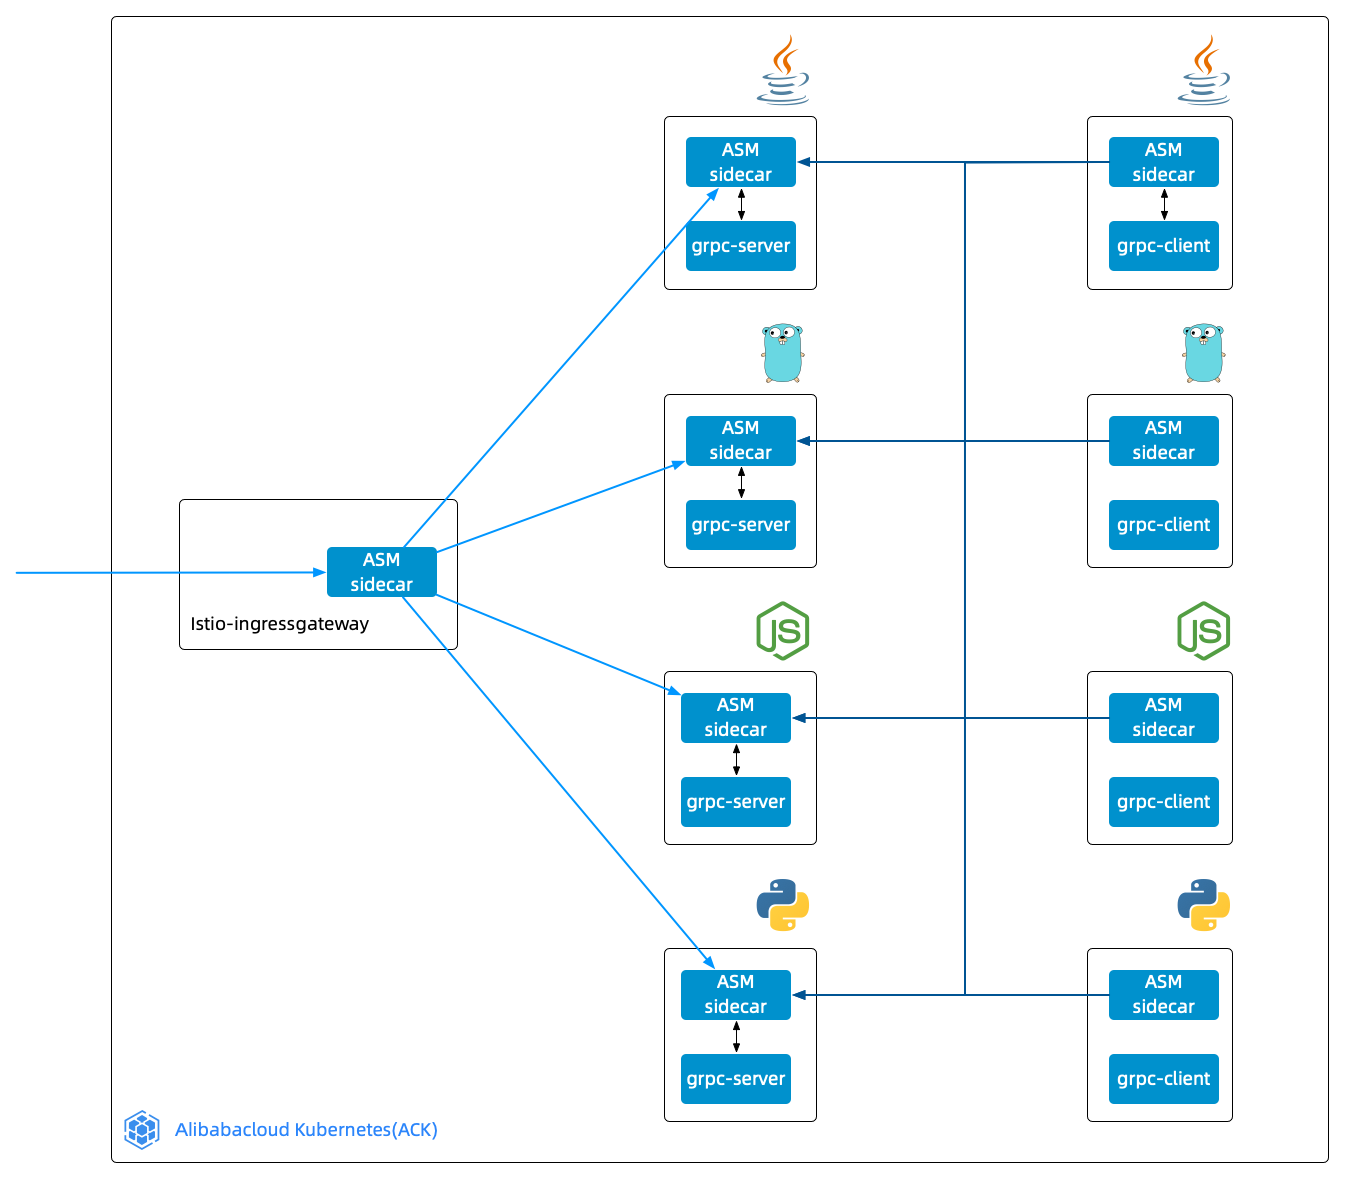
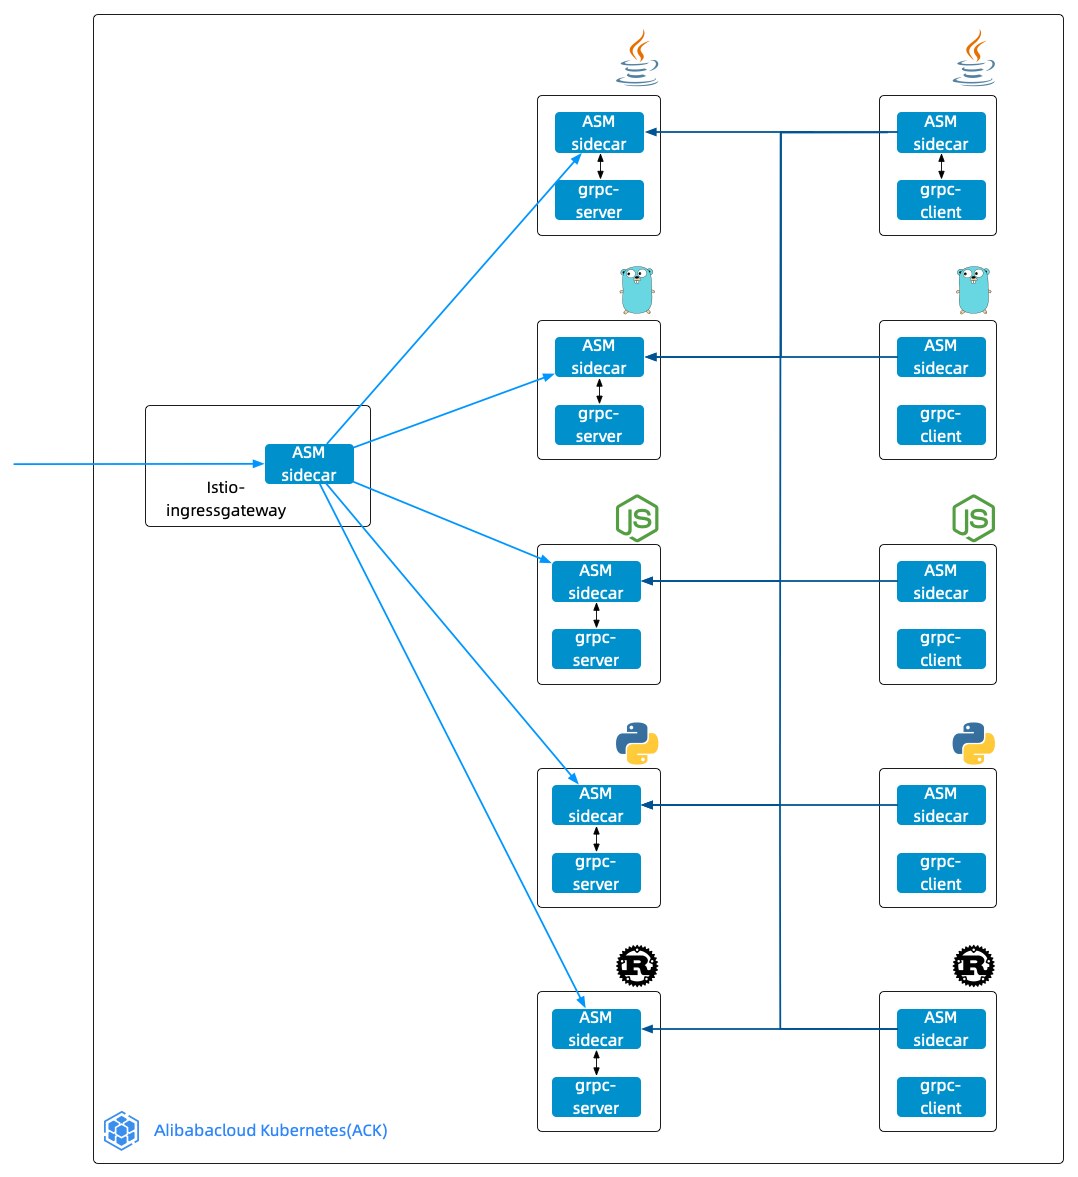
rust propagate done

diff --git a/hello-grpc-rust/src/landing/client.rs b/hello-grpc-rust/src/landing/client.rs
@@ -3,10 +3,11 @@ use std::time::Duration;
 
 use env_logger::Env;
 use futures::stream;
-use log::info;
+use log::{debug, error, info};
 use rand::Rng;
 use tokio::time;
 use tonic::Request;
+use tonic::transport::Channel;
 
 use landing::{TalkRequest, TalkResponse};
 use landing::landing_service_client::LandingServiceClient;
@@ -23,35 +24,61 @@ async fn main() -> Result<(), Box<dyn std::error::Error>> {
     info!("Access to:{}", address);
 
     let mut client = LandingServiceClient::connect(address).await?;
-    info!("Talk");
 
-    let message = TalkRequest {
-        data: "0".to_string(),
-        meta: "RUST".to_string(),
-    };
-    let mut request = Request::new(message);
-    request.metadata_mut().insert("k1", "v1".parse().unwrap());
-    request.metadata_mut().insert("k2", "v2".parse().unwrap());
 
-    let response = client.talk(request).await?;
-    print_response(response.get_ref());
-
-    info!("TalkOneAnswerMore");
-    let mut request = Request::new(TalkRequest {
-        data: "0,1,2".to_string(),
-        meta: "RUST".to_string(),
-    });
-    request.metadata_mut().insert("k1", "v1".parse().unwrap());
-    request.metadata_mut().insert("k2", "v2".parse().unwrap());
-    let mut stream = client
-        .talk_one_answer_more(request)
-        .await?
-        .into_inner();
-
-    while let Some(response) = stream.message().await? {
-        print_response(&response);
+    let result = talk(&mut client).await;
+    match result {
+        Err(e) => error!("{}", e),
+        _ => debug!("OK"),
     }
 
+    let result = talk_one_answer_more(&mut client).await;
+    match result {
+        Err(e) => error!("{}", e),
+        _ => debug!("OK"),
+    }
+
+    let result = talk_more_answer_one(&mut client).await;
+    match result {
+        Err(e) => error!("{}", e),
+        _ => debug!("OK"),
+    }
+
+    let result = talk_bidirectional(&mut client).await;
+    match result {
+        Err(e) => error!("{}", e),
+        _ => debug!("OK"),
+    }
+
+    info!("Done");
+    Ok(())
+}
+
+async fn talk_bidirectional(client: &mut LandingServiceClient<Channel>) -> Result<(), Box<dyn std::error::Error>> {
+    info!("TalkBidirectional");
+    let mut interval = time::interval(Duration::from_secs(1));
+    let mut times = 3;
+    let outbound = async_stream::stream! {
+        while times > 0 {
+            interval.tick().await;
+            let request = TalkRequest { data: random_id(5), meta: "RUST".to_string() };
+            yield request;
+            times -= 1;
+        }
+    };
+
+    let mut request = Request::new(outbound);
+    request.metadata_mut().insert("k1", "v1".parse().unwrap());
+    request.metadata_mut().insert("k2", "v2".parse().unwrap());
+    let response = client.talk_bidirectional(request).await?;
+    let mut inbound = response.into_inner();
+    while let Some(resp) = inbound.message().await? {
+        print_response(&resp);
+    }
+    Ok(())
+}
+
+async fn talk_more_answer_one(client: &mut LandingServiceClient<Channel>) -> Result<(), Box<dyn std::error::Error>> {
     info!("TalkMoreAnswerOne");
     let mut requests = vec![];
     requests.push(TalkRequest {
@@ -74,28 +101,41 @@ async fn main() -> Result<(), Box<dyn std::error::Error>> {
         Ok(response) => print_response(&response.into_inner()),
         Err(e) => info!("something went wrong: {:?}", e),
     }
+    Ok(())
+}
 
-    info!("TalkBidirectional");
-    let mut interval = time::interval(Duration::from_secs(1));
-    let mut times = 3;
-    let outbound = async_stream::stream! {
-        while times > 0 {
-            interval.tick().await;
-            let request = TalkRequest { data: random_id(5), meta: "RUST".to_string() };
-            yield request;
-            times -= 1;
-        }
-    };
-
-    let mut request = Request::new(outbound);
+async fn talk_one_answer_more(client: &mut LandingServiceClient<Channel>) -> Result<(), Box<dyn std::error::Error>> {
+    info!("TalkOneAnswerMore");
+    let mut request = Request::new(TalkRequest {
+        data: "0,1,2".to_string(),
+        meta: "RUST".to_string(),
+    });
     request.metadata_mut().insert("k1", "v1".parse().unwrap());
     request.metadata_mut().insert("k2", "v2".parse().unwrap());
-    let response = client.talk_bidirectional(request).await?;
-    let mut inbound = response.into_inner();
-    while let Some(resp) = inbound.message().await? {
-        print_response(&resp);
+    let mut stream = client
+        .talk_one_answer_more(request)
+        .await?
+        .into_inner();
+
+    while let Some(response) = stream.message().await? {
+        print_response(&response);
     }
-    info!("Done");
+    Ok(())
+}
+
+async fn talk(client: &mut LandingServiceClient<Channel>) -> Result<(), Box<dyn std::error::Error>> {
+    info!("Talk");
+
+    let message = TalkRequest {
+        data: "0".to_string(),
+        meta: "RUST".to_string(),
+    };
+    let mut request = Request::new(message);
+    request.metadata_mut().insert("k1", "v1".parse().unwrap());
+    request.metadata_mut().insert("k2", "v2".parse().unwrap());
+
+    let response = client.talk(request).await?;
+    print_response(response.get_ref());
     Ok(())
 }
 

diff --git a/hello-grpc-rust/src/landing/server.rs b/hello-grpc-rust/src/landing/server.rs
@@ -1,6 +1,3 @@
-#[macro_use]
-extern crate lazy_static;
-
 use std::collections::HashMap;
 use std::env;
 use std::pin::Pin;
@@ -9,10 +6,10 @@ use chrono::prelude::*;
 use env_logger::Env;
 use futures::{Stream, StreamExt};
 use futures::stream;
-use log::{error, info};
+use log::{debug, error, info};
 use tokio::sync::mpsc;
 use tonic::{Request, Response, Status, Streaming, transport::Server};
-use tonic::metadata::{KeyAndValueRef, MetadataMap};
+use tonic::metadata::{Ascii, KeyAndValueRef, MetadataKey, MetadataMap};
 use tonic::transport::Channel;
 use uuid::Uuid;
 
@@ -20,16 +17,25 @@ use landing::{ResultType, TalkRequest, TalkResponse, TalkResult};
 use landing::landing_service_client::LandingServiceClient;
 use landing::landing_service_server::{LandingService, LandingServiceServer};
 
-lazy_static! {
-    static ref HELLOS: [&'static str; 6] = [
-        "Hello",
-        "Bonjour",
-        "Hola",
-        "こんにちは",
-        "Ciao",
-        "안녕하세요",
-    ];
-}
+static HELLOS: [&'static str; 6] = [
+    "Hello",
+    "Bonjour",
+    "Hola",
+    "こんにちは",
+    "Ciao",
+    "안녕하세요",
+];
+
+static TRACING_KEYS: [&'static str; 7] = [
+    "x-request-id",
+    "x-b3-traceid",
+    "x-b3-spanid",
+    "x-b3-parentspanid",
+    "x-b3-sampled",
+    "x-b3-flags",
+    "x-ot-span-context",
+];
+
 pub mod landing {
     tonic::include_proto!("org.feuyeux.grpc");
 }
@@ -84,7 +90,7 @@ impl LandingService for ProtoServer {
 
     async fn talk(
         &self,
-        request: Request<TalkRequest>)
+        mut request: Request<TalkRequest>)
         -> Result<Response<TalkResponse>, Status> {
         let talk_request: &TalkRequest = request.get_ref();
         let data: &String = &talk_request.data;
@@ -95,6 +101,8 @@ impl LandingService for ProtoServer {
         if !self.backend.is_empty() {
             match &self.client {
                 Some(client) => {
+                    //TODO request and header is same...
+                    let _ = propaganda_headers(&mut request);
                     let mut c = client.clone();
                     let response: &Response<TalkResponse> = &c.talk(request).await?;
                     let talk_response = response.get_ref();
@@ -286,4 +294,22 @@ fn print_metadata(header: &MetadataMap) {
             KeyAndValueRef::Binary(ref k, ref v) => info!("H: {:?}: {:?}", k, v),
         }
     }
+}
+
+fn propaganda_headers(request: &mut Request<TalkRequest>) -> MetadataMap {
+    request.metadata_mut().clear();
+    let mut map = MetadataMap::new();
+    let headers = request.metadata_mut();
+    for key in &TRACING_KEYS {
+        let key: MetadataKey<Ascii> = MetadataKey::from_static(key);
+        match headers.get(&key) {
+            Some(v) => {
+                map.insert(&key, v.clone());
+            }
+            None => {
+                debug!("key doesn't exist in header");
+            }
+        }
+    }
+    map
 }

diff --git a/hello-grpc-rust/README.md b/hello-grpc-rust/README.md
@@ -1,14 +1,19 @@
 ## grpc rust[tonic] demo
 
-```sh
+
+### build
+```bash
 export RUSTUP_DIST_SERVER="https://mirrors.tuna.tsinghua.edu.cn/rustup"
 ```
 
-```sh
+```bash
 cargo build
 ```
 
-```sh
+### dev
+find generated rust code(org.feuyeux.grpc.rs)
+
+```bash
 $ find . -name "*.rs"
 
 ./target/debug/build/hello-grpc-rust-b1aedb8eb000afe4/out/org.feuyeux.grpc.rs
@@ -19,12 +24,52 @@ $ find . -name "*.rs"
 ./src/server.rs
 ```
 
-```sh
+### debug
+```bash
 cargo run --bin proto-server
 ```
 
-```sh
+```bash
 cargo run --bin proto-client
 ```
 
+
+### release(Croess Platform Support)
+```bash
+# https://doc.rust-lang.org/nightly/rustc/platform-support.html
+# https://doc.rust-lang.org/edition-guide/rust-2018/platform-and-target-support/musl-support-for-fully-static-binaries.html
+rustup update
+rustup target add x86_64-unknown-linux-musl
+rustup show
+
+# Error: Your CLT does not support macOS 11.2.
+# sudo rm -rf /Library/Developer/CommandLineTools
+# sudo xcode-select --install
+# https://download.developer.apple.com/Developer_Tools/Command_Line_Tools_for_Xcode_12.5_beta/Command_Line_Tools_for_Xcode_12.5_beta.dmg
+
+# /usr/bin/xcodebuild -version
+# Xcode 12.4
+# Build version 12D4e
+
+# pkgutil --pkg-info=com.apple.pkg.CLTools_Executables
+# package-id: com.apple.pkg.CLTools_Executables
+# version: 12.5.0.0.1.1611946261
+# volume: /
+# location: /
+# install-time: 1612700387
+# groups: com.apple.FindSystemFiles.pkg-group
+
+# code .cargo/config
+# [target.x86_64-unknown-linux-musl]
+# linker = "x86_64-linux-musl-gcc"
+
+# error: linking with `cc` failed: exit code: 1
+# clang: error: linker command failed with exit code 1 (use -v to see invocation)
+# brew install FiloSottile/musl-cross/musl-cross
+# ln -s /usr/local/bin/x86_64-linux-musl-gcc /usr/local/bin/musl-gcc
+
+CROSS_COMPILE=x86_64-linux-musl-gcc cargo build --release --bin proto-server --target=x86_64-unknown-linux-musl
+```
+
+## reference
 - https://github.com/hyperium/tonic

diff --git a/README.md b/README.md
@@ -1,8 +1,11 @@
 ## hello-servicemesh-grpc
+
 ### GRPC Diagram
 ![](img/grpc_diagram.png)
+
 ### Kube Topology
 ![](img/grpc_kube.png)
+
 ### Mesh Management
 #### v1 100%
 ![](img/grpc_mesh_v1_100.png)

diff --git a/hello-grpc-rust/FEATURE.md b/hello-grpc-rust/FEATURE.md
@@ -3,4 +3,5 @@
 - [x] HEADERS
 - [x] DOCKER IMAGE
 - [x] CROSS ACCESS
-- [ ] PROPAGANDA TRACING HEADERS
+- [x] PROXY(FRONT-BACK)
+- [ ] PROPAGATE TRACING HEADERS
